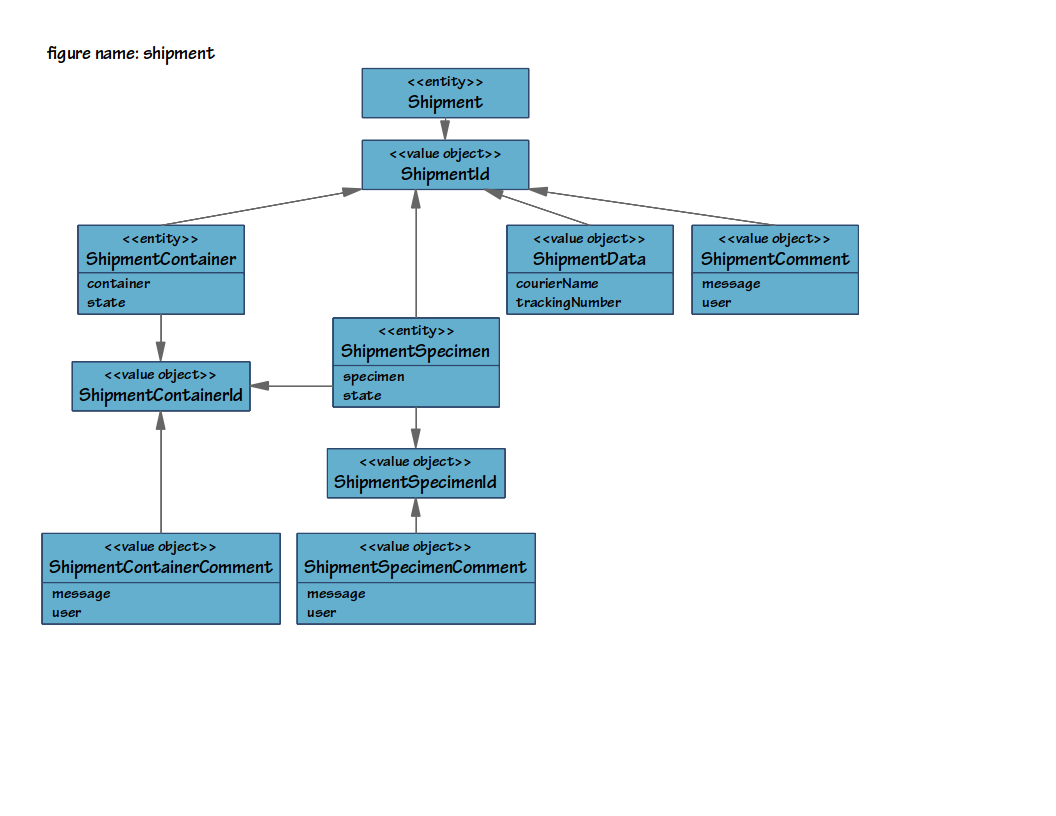
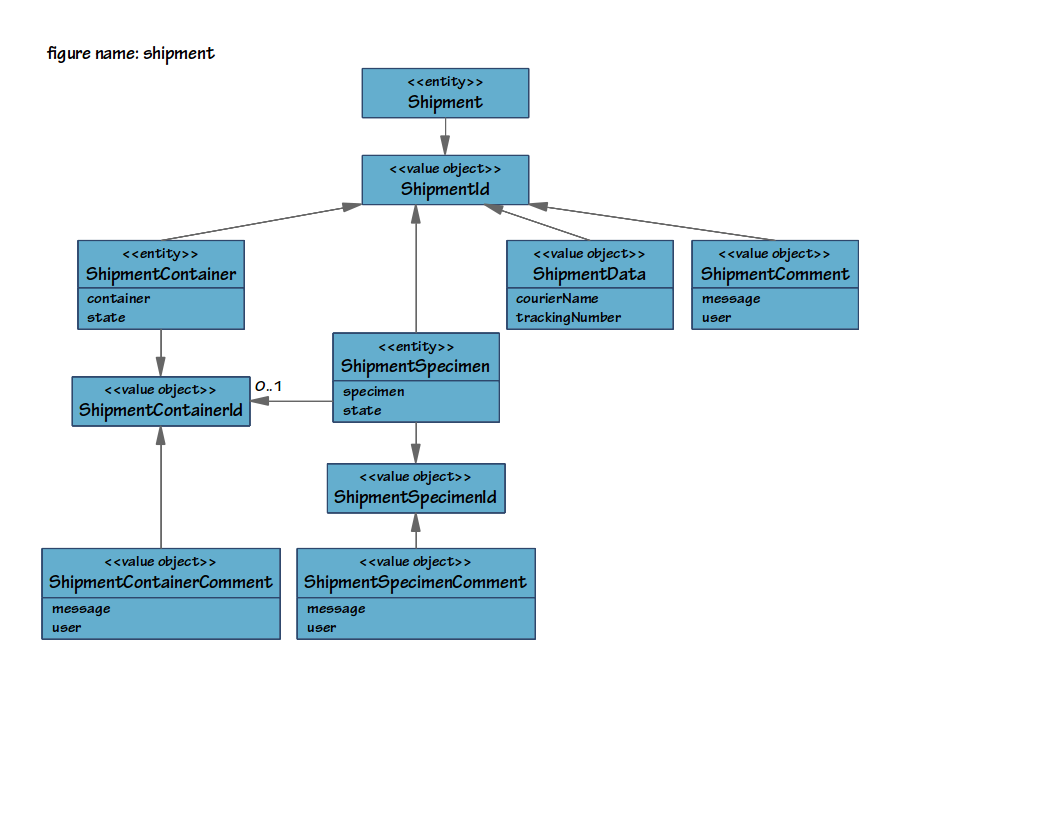
fix for shipments figure

Changed region(s): [[0.0312, 0.1532, 0.8125, 0.7966], [0.0625, 0.2451, 0.2812, 0.5515]]

diff --git a/centre-shipment.tex b/centre-shipment.tex
@@ -41,7 +41,7 @@ shows the remainder of the model for shipments.
 
 \begin{figure}[H]
   \centering
-  \includegraphics[trim={10mm 50mm 48mm 18mm}, clip,
+  \includegraphics[trim={10mm 46mm 50mm 18mm}, clip,
     width=0.9\textwidth]{images/shipment}
   \caption{Shipment model}
   \label{fig:shipment}
@@ -69,7 +69,9 @@ state and is one of the following:
 \subsection*{ShipmentSpecimen}
 \entitytarget{ShipmentSpecimen} is used to add a specimen at any center to a
 shipment.  A shipment specimen has a state and is the same as the ones for a
-\entitylink{ShipmentContainer} as described above.
+\entitylink{ShipmentContainer} as described above. Also, specimens can be sent
+without a container. In this case the association to shipment container is
+\compfont{null}.
 
 \subsection*{ShipmentData}
 The \valobjtarget{ShipmentData} value object records the courier company's name
